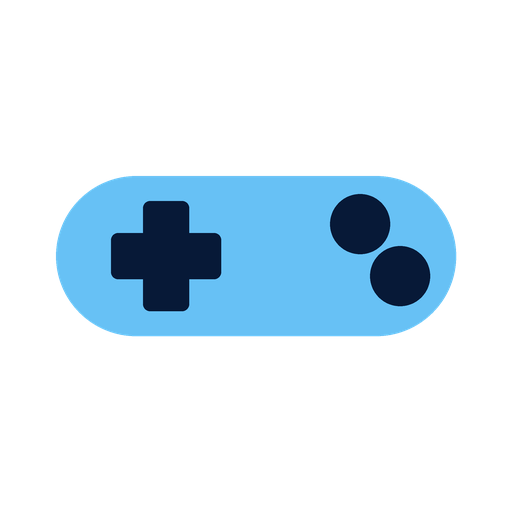
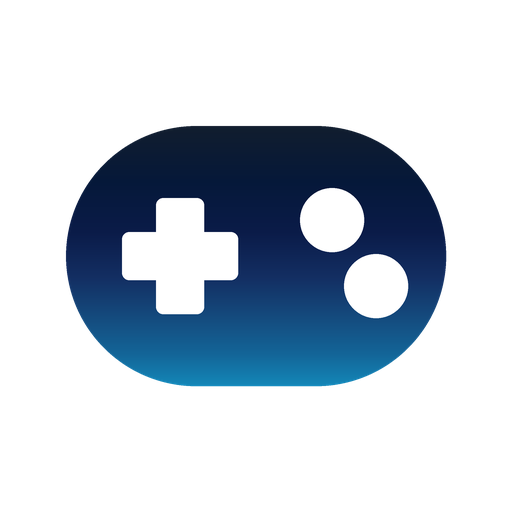
fix: use Steam's real official gradient and squarer proportions
Replaced the sampled flat colors with Valve's actual Steam logo
gradient (7 stops, pulled from their own official SVG asset at
upload.wikimedia.org/wikipedia/commons/8/83/Steam_icon_logo.svg — the
gradient behind their "eye" mark), applied to the gamepad body with a
white foreground (matching how the real logo puts white over that same
gradient). Also squared up the body proportions (380x260, ~1.46:1) from
the prior elongated 400x160 pill.

diff --git a/assets/generate-icon.py b/assets/generate-icon.py
@@ -6,25 +6,24 @@ whenever the icon needs to change. Requires Pillow (`pip install pillow`).
 
 Renders directly with Pillow instead of an SVG->PNG pipeline: both a
 Chrome/chrome-devtools screenshot and macOS Quick Look's SVG thumbnailer
-silently composite the transparent background against opaque white,
-which Anthropic's MCPB icon spec explicitly requires ("PNG with
-transparency" - see claude.com/docs/connectors/building/mcpb). Drawing
-directly gives real per-pixel alpha with no compositing step to lose it.
+silently composite the transparent background against opaque white, which
+Anthropic's MCPB icon spec explicitly requires ("PNG with transparency" -
+see claude.com/docs/connectors/building/mcpb). Drawing directly gives real
+per-pixel alpha with no compositing step to lose it.
 
 Keep the geometry/colors here in sync with icon-source.svg by hand if you
 ever edit one — there's no automated link between the two.
 
-Colors are measured from Steam's own live site/assets, not guessed:
-  - PILL_BLUE  #67C1F5 — getComputedStyle background-color sampled on
-    store.steampowered.com (rgb(103, 193, 245)), Steam's familiar light-blue
-    accent (close to the commonly-cited "Steam blue" #66C0F4).
-  - DOT_NAVY   #071937 — most frequent non-transparent pixel color in
-    store.steampowered.com/favicon.ico (Steam's own logo mark ink), a dark
-    blue-black consistent with the site's body background (measured
-    rgb(15, 25, 36) = #0F1923).
-Shape is a literal (simplified/original) gamepad silhouette — a rounded
-capsule body with a D-pad cross on the left and two action buttons on the
-right — not Steam's own logo mark; color association only.
+Gradient stops are Valve's own real Steam logo gradient, pulled directly
+from their official SVG asset
+(upload.wikimedia.org/wikipedia/commons/8/83/Steam_icon_logo.svg, the
+<linearGradient id="A"> behind their "eye" mark) — not approximated from a
+page-background sample. The foreground (D-pad + buttons) is plain white,
+matching how the real logo puts a solid white mark over that same gradient.
+Shape is a literal (but simplified/original) gamepad silhouette — a rounded,
+near-square capsule body with a D-pad cross on the left and two action
+buttons on the right — not Steam's own logo mark (their actual "eye"
+glyph); gradient/color association only.
 """
 
 from pathlib import Path
@@ -37,48 +36,86 @@ SIZE = 512
 SCALE = 4  # supersample then downsample for anti-aliased edges (Pillow's
            # ImageDraw has no native AA)
 
-PILL_BLUE = (0x67, 0xC1, 0xF5)
-DOT_NAVY = (0x07, 0x19, 0x37)
+# Valve's own gradient, top to bottom, verified against the live SVG asset
+# above (7 stops, not simplified — matching the real file exactly).
+STOPS = [
+    (0.0, (0x11, 0x1D, 0x2E)),
+    (0.212, (0x05, 0x18, 0x39)),
+    (0.407, (0x0A, 0x1B, 0x48)),
+    (0.581, (0x13, 0x2E, 0x62)),
+    (0.738, (0x14, 0x4B, 0x7E)),
+    (0.873, (0x13, 0x64, 0x97)),
+    (1.0, (0x13, 0x87, 0xB8)),
+]
+WHITE = (0xFF, 0xFF, 0xFF)
 
 # All geometry in final 512x512 units; multiplied by SCALE at draw time.
-BODY_BOX = (56, 176, 456, 336)  # capsule body — radius = height/2
+# A near-square body (380x260, ~1.46:1) rather than an elongated pill.
+BODY_BOX = (66, 126, 446, 386)
 
-DPAD_CENTER = (166, 256)
-DPAD_ARM_LEN = 110  # full span of each arm (tip to tip through center)
-DPAD_THICK = 46
+DPAD_CENTER = (180, 256)
+DPAD_ARM_LEN = 116  # full span of each arm (tip to tip through center)
+DPAD_THICK = 48
 
-BTN_CENTERS = [(360, 224), (400, 276)]  # diagonal 2-button layout
-BTN_RADIUS = 30
+BTN_CENTERS = [(332, 220), (376, 286)]  # diagonal 2-button layout
+BTN_RADIUS = 32
+
+
+def lerp_color(t, stops):
+    for i in range(len(stops) - 1):
+        t0, c0 = stops[i]
+        t1, c1 = stops[i + 1]
+        if t0 <= t <= t1 or i == len(stops) - 2:
+            local_t = 0.0 if t1 == t0 else (t - t0) / (t1 - t0)
+            local_t = max(0.0, min(1.0, local_t))
+            return tuple(round(c0[ch] + (c1[ch] - c0[ch]) * local_t) for ch in range(3))
+    return stops[-1][1]
 
 
 def main():
     w = h = SIZE * SCALE
-    img = Image.new("RGBA", (w, h), (0, 0, 0, 0))
-    d = ImageDraw.Draw(img)
 
+    mask = Image.new("L", (w, h), 0)
+    d = ImageDraw.Draw(mask)
     bx0, by0, bx1, by1 = (v * SCALE for v in BODY_BOX)
     radius = (by1 - by0) / 2
-    d.rounded_rectangle([bx0, by0, bx1, by1], radius=radius, fill=(*PILL_BLUE, 255))
+    d.rounded_rectangle([bx0, by0, bx1, by1], radius=radius, fill=255)
 
+    # vertical gradient, scoped to the body's own bounding box — matches
+    # icon-source.svg's gradient units (y1=0/y2=1 relative to the shape).
+    x0, y0, x1, y1 = mask.getbbox()
+    grad = Image.new("RGB", (w, h))
+    gpix = grad.load()
+    span = max(1, y1 - y0)
+    row_colors = {y: lerp_color((y - y0) / span, STOPS) for y in range(y0, y1)}
+    for y in range(y0, y1):
+        col = row_colors[y]
+        for x in range(x0, x1):
+            gpix[x, y] = col
+
+    img = Image.new("RGBA", (w, h), (0, 0, 0, 0))
+    img.paste(grad, (0, 0), mask)
+
+    d2 = ImageDraw.Draw(img)
     cx, cy = DPAD_CENTER
     cx, cy = cx * SCALE, cy * SCALE
     half_len = (DPAD_ARM_LEN / 2) * SCALE
     half_thick = (DPAD_THICK / 2) * SCALE
-    d.rounded_rectangle(
+    d2.rounded_rectangle(
         [cx - half_len, cy - half_thick, cx + half_len, cy + half_thick],
         radius=half_thick * 0.3,
-        fill=(*DOT_NAVY, 255),
+        fill=(*WHITE, 255),
     )
-    d.rounded_rectangle(
+    d2.rounded_rectangle(
         [cx - half_thick, cy - half_len, cx + half_thick, cy + half_len],
         radius=half_thick * 0.3,
-        fill=(*DOT_NAVY, 255),
+        fill=(*WHITE, 255),
     )
 
     r = BTN_RADIUS * SCALE
     for bx, by in BTN_CENTERS:
         bx, by = bx * SCALE, by * SCALE
-        d.ellipse([bx - r, by - r, bx + r, by + r], fill=(*DOT_NAVY, 255))
+        d2.ellipse([bx - r, by - r, bx + r, by + r], fill=(*WHITE, 255))
 
     out = img.resize((SIZE, SIZE), Image.LANCZOS)
     out.save(OUT)
